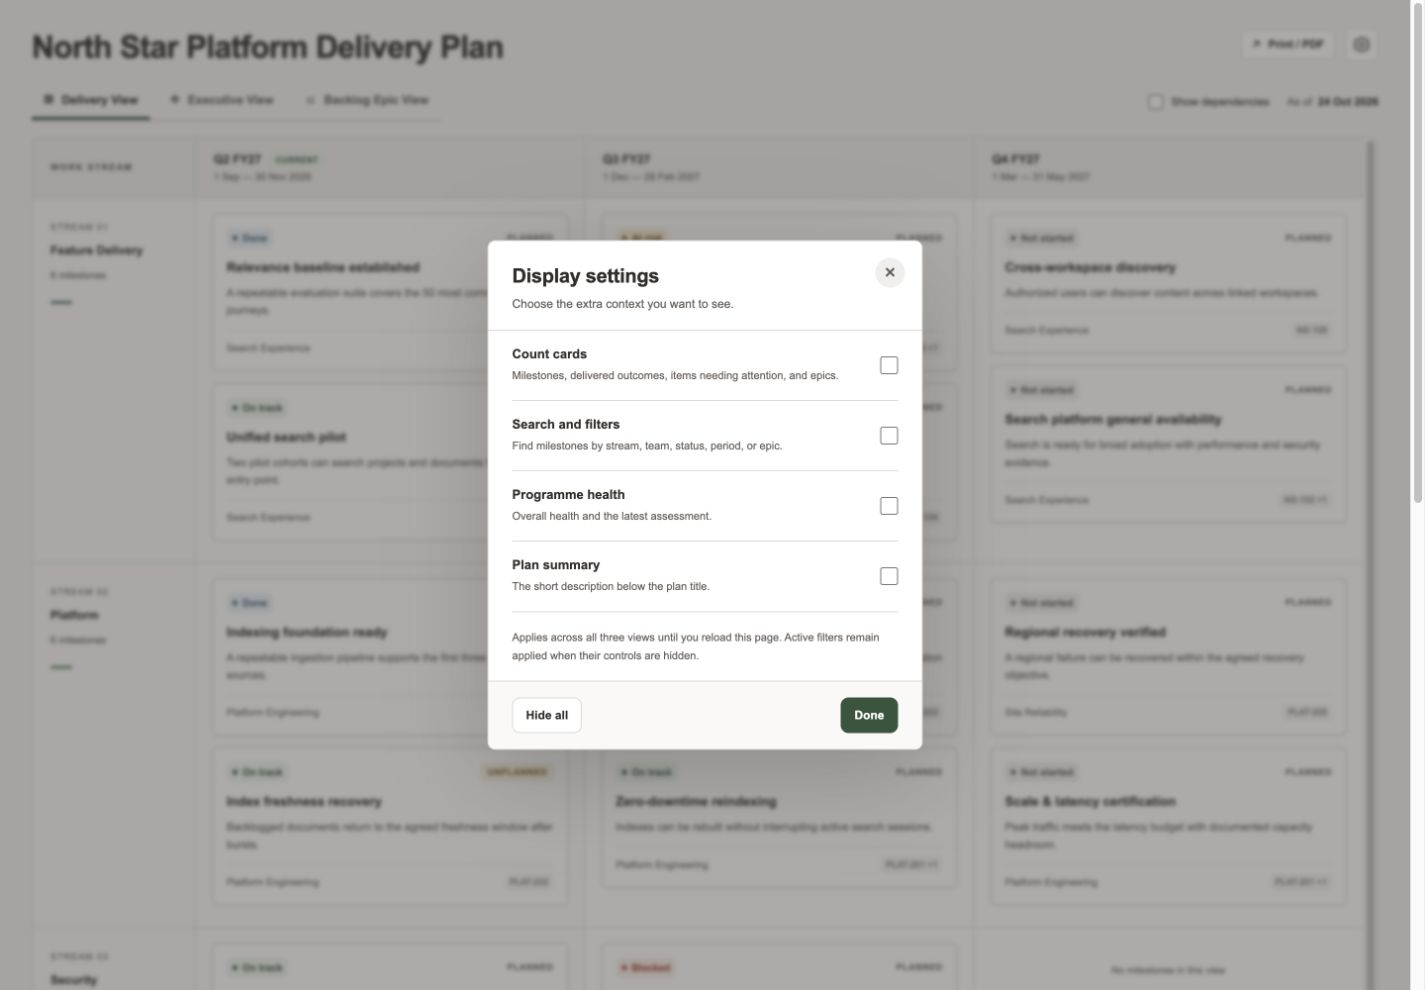
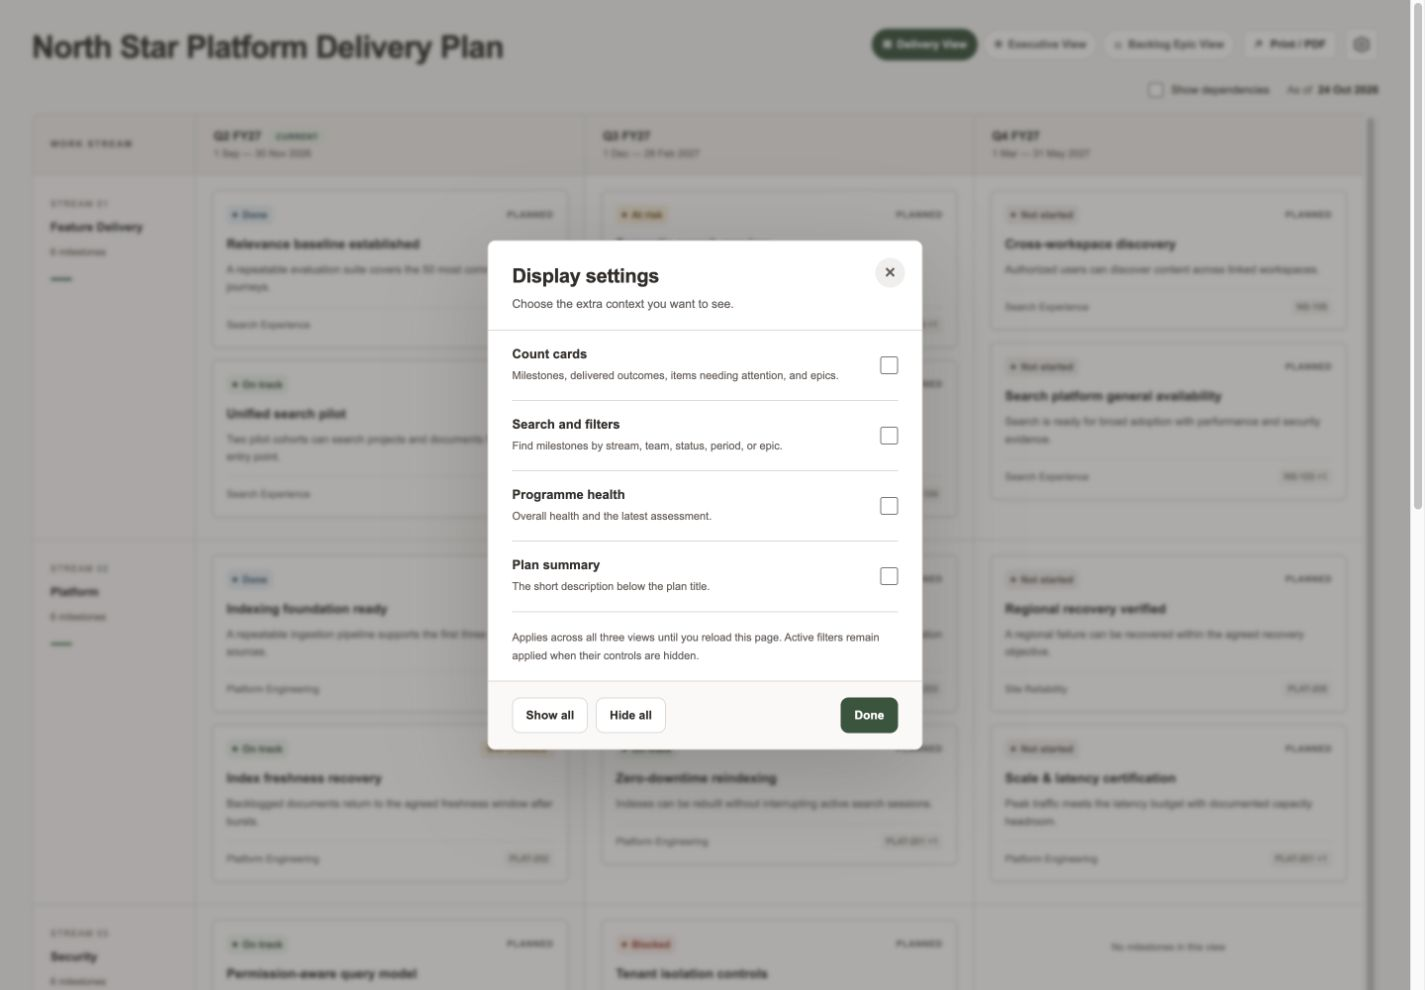
ui(planner): add view chips and show all settings

diff --git a/Plans/north-star-platform/delivery_plan.html b/Plans/north-star-platform/delivery_plan.html
@@ -26,7 +26,7 @@ a{color:var(--teal)}
 .button.primary{background:var(--primary);color:white;border-color:var(--primary)}
 .workspace{max-width:1800px;margin:auto;padding:28px 32px 24px}
 .hero{display:grid;grid-template-columns:minmax(0,1fr) auto;align-items:start;gap:12px 24px;margin-bottom:16px}
-.header-actions{display:flex;align-items:center;justify-content:flex-end;gap:10px}
+.header-actions{display:flex;align-items:center;justify-content:flex-end;gap:8px;flex-wrap:wrap;max-width:520px}
 .hero-copy{min-width:0}
 .eyebrow{display:flex;align-items:center;gap:10px;font-size:10px;font-weight:700;letter-spacing:1.5px;color:var(--muted)}
 h1{font-size:clamp(25px,2.2vw,32px);line-height:1.25;letter-spacing:-.7px;margin:0;font-weight:650;overflow-wrap:anywhere}
@@ -46,9 +46,9 @@ h1{font-size:clamp(25px,2.2vw,32px);line-height:1.25;letter-spacing:-.7px;margin
 .metric-number.teal{color:var(--teal)}
 .metric-number.amber{color:var(--amber)}
 .navigation-row{display:flex;align-items:center;justify-content:space-between;gap:12px 20px;flex-wrap:wrap;margin-bottom:16px}
-.view-tabs{display:flex;gap:8px;border-bottom:1px solid #bcb6b1;padding:0}
-.view-tabs button{border:0;border-bottom:3px solid transparent;background:transparent;padding:10px 12px;font-size:12px;font-weight:600;display:flex;align-items:center;gap:8px;color:var(--muted)}
-.view-tabs button[aria-selected=true]{border-bottom-color:var(--primary);color:var(--ink);background:transparent}
+.view-tabs{display:flex;gap:5px;padding:0;flex-wrap:wrap}
+.view-tabs button{border:1px solid var(--line);border-radius:16px;background:var(--paper);min-height:32px;padding:6px 10px;font-size:11px;font-weight:600;display:flex;align-items:center;gap:5px;color:var(--muted);white-space:nowrap}
+.view-tabs button[aria-selected=true]{border-color:var(--primary);color:#fff;background:var(--primary)}
 .filters{display:flex;align-items:end;gap:10px;flex-wrap:wrap;background:white;padding:14px 16px;border:1px solid var(--line);border-radius:8px}
 .filters label{display:flex;flex-direction:column;gap:6px;flex:1 1 110px;min-width:105px}
 .filters .search-filter{flex:1.5 1 180px}
@@ -178,6 +178,7 @@ dialog::backdrop{background:#312d2a66;backdrop-filter:blur(2px)}
 .no-script article{break-inside:avoid;border-top:1px solid var(--line);padding:14px 0}
 
 .view-tabs button:hover{background:#ece9e6}
+.view-tabs button[aria-selected=true]:hover{background:var(--primary)}
 
 .utility-actions{display:flex;align-items:center;gap:10px;flex-wrap:wrap;margin-left:auto}
 .reporting-date{font-size:11px;color:var(--muted);white-space:nowrap}
@@ -197,6 +198,7 @@ dialog::backdrop{background:#312d2a66;backdrop-filter:blur(2px)}
 .setting-row small{display:block;font-size:11px;line-height:1.6;color:var(--muted);margin-top:5px}
 .setting-row input{width:18px;height:18px;margin:0;flex:none;accent-color:var(--primary);cursor:pointer}
 .settings-note{font-size:11px;line-height:1.7;color:var(--muted);margin:16px 0 0}
+.settings-bulk-actions{display:flex;gap:8px}
 .settings-footer{display:flex;align-items:center;justify-content:space-between;gap:12px;padding:16px 24px;border-top:1px solid var(--line);background:#fbf9f8}
 
 @media(min-width:1600px){.milestone-title{font-size:13px}
@@ -232,8 +234,8 @@ dialog::backdrop{background:#312d2a66;backdrop-filter:blur(2px)}
 .utility-actions{width:100%;order:-1;justify-content:flex-end}
 .roadmap-controls{margin-right:0}
 .reporting-date{order:-1;margin-right:auto}
-.view-tabs{width:100%}
-.view-tabs button{flex:1;padding:10px 6px;font-size:11px;gap:4px}
+.view-tabs{width:100%;justify-content:flex-end}
+.view-tabs button{padding:6px;font-size:10px;gap:3px}
 .filters{gap:9px;padding:12px}
 .filters .search-filter{flex-basis:100%}
 .filters label{flex-basis:calc(33% - 12px);min-width:85px}
@@ -265,9 +267,10 @@ dialog::backdrop{background:#312d2a66;backdrop-filter:blur(2px)}
 @media print{.utility-actions{order:0;width:auto}
 body{background:white;color:#312d2a;font-size:10px;print-color-adjust:exact;-webkit-print-color-adjust:exact}
 .workspace{padding:16px 0;max-width:none}
-.skip-link,.header-actions,.utility-actions button,.filters,.roadmap-controls,.reset-button,.diagnostics,dialog{display:none!important}
+.skip-link,.header-actions>.button,.utility-actions button,.filters,.roadmap-controls,.reset-button,.diagnostics,dialog{display:none!important}
 .hero{grid-template-columns:1fr;margin-bottom:15px;gap:12px}
 .hero-copy{grid-row:auto}
+.header-actions{grid-row:auto;justify-content:flex-start;justify-self:start;max-width:none}
 h1{font-size:28px}
 .hero-summary{font-size:11px}
 .metrics{margin-bottom:15px}
@@ -320,17 +323,18 @@ h1{font-size:28px}
     <section class="hero" aria-labelledby="plan-title">
       <div class="hero-copy"><div class="title-row"><h1 id="plan-title">North Star Platform Delivery Plan</h1><div class="health-card" id="health-card" hidden><button class="health-button" id="health-button" type="button" aria-haspopup="dialog" aria-controls="health-dialog" aria-expanded="false"><span>Programme health</span><span id="health-status"></span><span aria-hidden="true">ⓘ</span></button></div></div><p class="hero-summary" id="plan-summary" hidden>A shared roadmap for better discovery, a resilient platform, and a confident rollout. Fictional public example.</p></div>
       <div class="header-actions">
+      <nav class="view-tabs" role="tablist" aria-label="Plan views">
+        <button type="button" id="tab-delivery" role="tab" data-view="delivery" aria-controls="view-content">▦ <span>Delivery View</span></button>
+        <button type="button" id="tab-executive" role="tab" data-view="executive" aria-controls="view-content">◈ <span>Executive View</span></button>
+        <button type="button" id="tab-backlog_epic" role="tab" data-view="backlog_epic" aria-controls="view-content">☷ <span>Backlog Epic View</span></button>
+      </nav>
         <button class="button compact-button" id="print-button" type="button"><span aria-hidden="true">↗</span> Print / PDF</button>
         <button class="button icon-button" id="settings-button" type="button" aria-label="Display settings" title="Display settings" aria-haspopup="dialog" aria-controls="settings-dialog" aria-expanded="false"><svg viewBox="0 0 24 24" width="18" height="18" fill="none" stroke="currentColor" stroke-width="1.7" stroke-linecap="round" stroke-linejoin="round" aria-hidden="true"><path d="m9 3-.6 2.4-2 .9-2.2-.7-2 3.4L4 10.7v2.6l-1.8 1.7 2 3.4 2.2-.7 2 .9L9 21h6l.6-2.4 2-.9 2.2.7 2-3.4-1.8-1.7v-2.6L21.8 9l-2-3.4-2.2.7-2-.9L15 3Z"/><circle cx="12" cy="12" r="3"/></svg></button>
       </div>
     </section>
     <section class="metrics" aria-label="Full plan milestone counts" id="metrics" hidden></section>
     <div class="navigation-row">
-      <nav class="view-tabs" role="tablist" aria-label="Plan views">
-        <button type="button" id="tab-delivery" role="tab" data-view="delivery" aria-controls="view-content">▦ <span>Delivery View</span></button>
-        <button type="button" id="tab-executive" role="tab" data-view="executive" aria-controls="view-content">◈ <span>Executive View</span></button>
-        <button type="button" id="tab-backlog_epic" role="tab" data-view="backlog_epic" aria-controls="view-content">☷ <span>Backlog Epic View</span></button>
-      </nav>
+
       <div class="utility-actions">
         <div class="roadmap-controls" id="roadmap-controls" hidden>
           <button class="button selection-clear" id="clear-selection" type="button" hidden>Clear selection</button>
@@ -364,7 +368,7 @@ h1{font-size:28px}
       <label class="setting-row"><span><strong>Plan summary</strong><small>The short description below the plan title.</small></span><input id="display-summary" type="checkbox" aria-label="Plan summary" aria-controls="plan-summary"></label>
       <p class="settings-note">Applies across all three views until you reload this page. Active filters remain applied when their controls are hidden.</p>
     </div>
-    <div class="settings-footer"><button class="button" id="hide-all-panels" type="button">Hide all</button><button class="button primary" id="done-settings" type="button">Done</button></div>
+    <div class="settings-footer"><div class="settings-bulk-actions"><button class="button" id="show-all-panels" type="button">Show all</button><button class="button" id="hide-all-panels" type="button">Hide all</button></div><button class="button primary" id="done-settings" type="button">Done</button></div>
   </dialog>
   <dialog id="health-dialog" class="settings-dialog" aria-labelledby="health-title" aria-describedby="health-note">
     <div class="settings-head"><h2 id="health-title">Programme health</h2><button class="close-detail" id="close-health" type="button" aria-label="Close programme health" autofocus>×</button><div id="health-detail-status"></div></div>
@@ -595,7 +599,7 @@ h1{font-size:28px}
     $('clear-selection').addEventListener('click',()=>{state.selected=null;render();$('show-dependencies').focus({preventScroll:true});});
     $('settings-button').addEventListener('click',()=>{$('settings-dialog').showModal();$('settings-button').setAttribute('aria-expanded','true');});
     for (const key of Object.keys(display)) $(`display-${key}`).addEventListener('change',event=>{display[key]=event.target.checked;applyDisplay();});
-    $('hide-all-panels').addEventListener('click',()=>{Object.keys(display).forEach(key=>display[key]=false);applyDisplay();});
+    for (const [id,visible] of [['show-all-panels',true],['hide-all-panels',false]]) $(id).addEventListener('click',()=>{Object.keys(display).forEach(key=>display[key]=visible);applyDisplay();});
     for (const id of ['close-settings','done-settings']) $(id).addEventListener('click',()=>$('settings-dialog').close());
     $('settings-dialog').addEventListener('click',event=>{if(event.target===$('settings-dialog')){const r=event.target.getBoundingClientRect();if(event.clientX<r.left||event.clientX>r.right||event.clientY<r.top||event.clientY>r.bottom)event.target.close();}});
     $('settings-dialog').addEventListener('close',()=>{$('settings-button').setAttribute('aria-expanded','false');$('settings-button').focus({preventScroll:true});});

diff --git a/Skills/delivery-planner/assets/templates/plan.css b/Skills/delivery-planner/assets/templates/plan.css
@@ -18,7 +18,7 @@ a{color:var(--teal)}
 .button.primary{background:var(--primary);color:white;border-color:var(--primary)}
 .workspace{max-width:1800px;margin:auto;padding:28px 32px 24px}
 .hero{display:grid;grid-template-columns:minmax(0,1fr) auto;align-items:start;gap:12px 24px;margin-bottom:16px}
-.header-actions{display:flex;align-items:center;justify-content:flex-end;gap:10px}
+.header-actions{display:flex;align-items:center;justify-content:flex-end;gap:8px;flex-wrap:wrap;max-width:520px}
 .hero-copy{min-width:0}
 .eyebrow{display:flex;align-items:center;gap:10px;font-size:10px;font-weight:700;letter-spacing:1.5px;color:var(--muted)}
 h1{font-size:clamp(25px,2.2vw,32px);line-height:1.25;letter-spacing:-.7px;margin:0;font-weight:650;overflow-wrap:anywhere}
@@ -38,9 +38,9 @@ h1{font-size:clamp(25px,2.2vw,32px);line-height:1.25;letter-spacing:-.7px;margin
 .metric-number.teal{color:var(--teal)}
 .metric-number.amber{color:var(--amber)}
 .navigation-row{display:flex;align-items:center;justify-content:space-between;gap:12px 20px;flex-wrap:wrap;margin-bottom:16px}
-.view-tabs{display:flex;gap:8px;border-bottom:1px solid #bcb6b1;padding:0}
-.view-tabs button{border:0;border-bottom:3px solid transparent;background:transparent;padding:10px 12px;font-size:12px;font-weight:600;display:flex;align-items:center;gap:8px;color:var(--muted)}
-.view-tabs button[aria-selected=true]{border-bottom-color:var(--primary);color:var(--ink);background:transparent}
+.view-tabs{display:flex;gap:5px;padding:0;flex-wrap:wrap}
+.view-tabs button{border:1px solid var(--line);border-radius:16px;background:var(--paper);min-height:32px;padding:6px 10px;font-size:11px;font-weight:600;display:flex;align-items:center;gap:5px;color:var(--muted);white-space:nowrap}
+.view-tabs button[aria-selected=true]{border-color:var(--primary);color:#fff;background:var(--primary)}
 .filters{display:flex;align-items:end;gap:10px;flex-wrap:wrap;background:white;padding:14px 16px;border:1px solid var(--line);border-radius:8px}
 .filters label{display:flex;flex-direction:column;gap:6px;flex:1 1 110px;min-width:105px}
 .filters .search-filter{flex:1.5 1 180px}
@@ -170,6 +170,7 @@ dialog::backdrop{background:#312d2a66;backdrop-filter:blur(2px)}
 .no-script article{break-inside:avoid;border-top:1px solid var(--line);padding:14px 0}
 
 .view-tabs button:hover{background:#ece9e6}
+.view-tabs button[aria-selected=true]:hover{background:var(--primary)}
 
 .utility-actions{display:flex;align-items:center;gap:10px;flex-wrap:wrap;margin-left:auto}
 .reporting-date{font-size:11px;color:var(--muted);white-space:nowrap}
@@ -189,6 +190,7 @@ dialog::backdrop{background:#312d2a66;backdrop-filter:blur(2px)}
 .setting-row small{display:block;font-size:11px;line-height:1.6;color:var(--muted);margin-top:5px}
 .setting-row input{width:18px;height:18px;margin:0;flex:none;accent-color:var(--primary);cursor:pointer}
 .settings-note{font-size:11px;line-height:1.7;color:var(--muted);margin:16px 0 0}
+.settings-bulk-actions{display:flex;gap:8px}
 .settings-footer{display:flex;align-items:center;justify-content:space-between;gap:12px;padding:16px 24px;border-top:1px solid var(--line);background:#fbf9f8}
 
 @media(min-width:1600px){.milestone-title{font-size:13px}
@@ -224,8 +226,8 @@ dialog::backdrop{background:#312d2a66;backdrop-filter:blur(2px)}
 .utility-actions{width:100%;order:-1;justify-content:flex-end}
 .roadmap-controls{margin-right:0}
 .reporting-date{order:-1;margin-right:auto}
-.view-tabs{width:100%}
-.view-tabs button{flex:1;padding:10px 6px;font-size:11px;gap:4px}
+.view-tabs{width:100%;justify-content:flex-end}
+.view-tabs button{padding:6px;font-size:10px;gap:3px}
 .filters{gap:9px;padding:12px}
 .filters .search-filter{flex-basis:100%}
 .filters label{flex-basis:calc(33% - 12px);min-width:85px}
@@ -257,9 +259,10 @@ dialog::backdrop{background:#312d2a66;backdrop-filter:blur(2px)}
 @media print{.utility-actions{order:0;width:auto}
 body{background:white;color:#312d2a;font-size:10px;print-color-adjust:exact;-webkit-print-color-adjust:exact}
 .workspace{padding:16px 0;max-width:none}
-.skip-link,.header-actions,.utility-actions button,.filters,.roadmap-controls,.reset-button,.diagnostics,dialog{display:none!important}
+.skip-link,.header-actions>.button,.utility-actions button,.filters,.roadmap-controls,.reset-button,.diagnostics,dialog{display:none!important}
 .hero{grid-template-columns:1fr;margin-bottom:15px;gap:12px}
 .hero-copy{grid-row:auto}
+.header-actions{grid-row:auto;justify-content:flex-start;justify-self:start;max-width:none}
 h1{font-size:28px}
 .hero-summary{font-size:11px}
 .metrics{margin-bottom:15px}

diff --git a/Skills/delivery-planner/assets/templates/plan.js b/Skills/delivery-planner/assets/templates/plan.js
@@ -221,7 +221,7 @@
     $('clear-selection').addEventListener('click',()=>{state.selected=null;render();$('show-dependencies').focus({preventScroll:true});});
     $('settings-button').addEventListener('click',()=>{$('settings-dialog').showModal();$('settings-button').setAttribute('aria-expanded','true');});
     for (const key of Object.keys(display)) $(`display-${key}`).addEventListener('change',event=>{display[key]=event.target.checked;applyDisplay();});
-    $('hide-all-panels').addEventListener('click',()=>{Object.keys(display).forEach(key=>display[key]=false);applyDisplay();});
+    for (const [id,visible] of [['show-all-panels',true],['hide-all-panels',false]]) $(id).addEventListener('click',()=>{Object.keys(display).forEach(key=>display[key]=visible);applyDisplay();});
     for (const id of ['close-settings','done-settings']) $(id).addEventListener('click',()=>$('settings-dialog').close());
     $('settings-dialog').addEventListener('click',event=>{if(event.target===$('settings-dialog')){const r=event.target.getBoundingClientRect();if(event.clientX<r.left||event.clientX>r.right||event.clientY<r.top||event.clientY>r.bottom)event.target.close();}});
     $('settings-dialog').addEventListener('close',()=>{$('settings-button').setAttribute('aria-expanded','false');$('settings-button').focus({preventScroll:true});});

diff --git a/docs/verification.md b/docs/verification.md
@@ -57,12 +57,12 @@ Inspected the generated HTML through a localhost-only server in the Codex browse
 - Backlog Epic View contains 21 epic groups plus the unlinked-milestone group. Filtering to PLAT-201 produces one group with three milestones across three periods, with unique counts.
 - Keyboard arrow navigation switches tabs. Native controls and modal focus handling are available.
 - Desktop and 390-pixel viewport checks showed no page-wide horizontal overflow. The narrow roadmap scrolls within its own container.
-- Redwood styling uses warm neutrals, a compact title, underlined tabs, and consistent status badges. Print / PDF and the settings icon sit at the top-right beside the title; the reporting date remains beside view navigation. The dark banner and office branding have been removed.
-- Programme health, count cards, search/filters, the summary, and the inactive result strip are hidden on initial load. When enabled, programme health appears beside the title as a 32-pixel-high badge. The desktop roadmap begins about 138 pixels from the top at a 1440-pixel viewport width.
-- Display settings independently enables all four optional panels across the three views. Hide all hides every optional element, including health. Close, Done, and Escape dismiss the overlay and restore focus to its trigger. Reload resets all four settings to unchecked and hides the health badge.
+- Redwood styling uses warm neutrals, a compact title, filled selected view chips, and consistent status badges. View chips, Print / PDF, and the settings icon sit at the top-right beside the title; the reporting date remains with the dependency controls below. The dark banner and office branding have been removed.
+- Programme health, count cards, search/filters, the summary, and the inactive result strip are hidden on initial load. When enabled, programme health appears beside the title as a 32-pixel-high badge. The desktop roadmap begins about 116 pixels from the top at a 1440-pixel viewport width.
+- Display settings independently enables all four optional panels across the three views. Show all enables all four optional elements and checks their settings. Hide all hides every optional element, including health. Close, Done, and Escape dismiss the overlay and restore focus to its trigger. Reload resets all four settings to unchecked and hides the health badge.
 - Hiding the controls with PLAT-201 selected preserves the one-epic, three-milestone result and its visible Clear filters action. Clearing restores all 22 groups (21 epic groups plus unlinked milestones) and hides the inactive result strip.
 - Dependency display still renders 21 valid relationships after enabling count cards. Selecting and clearing a milestone correctly shows and hides the selection summary.
-- Delivery and Executive roadmaps start directly with period headings. Show dependencies and Clear selection are outside the board beside the view controls. Dependency state survives view switches; roadmap controls are hidden in Backlog Epic View. Clearing a selection returns focus to Show dependencies.
+- Delivery and Executive roadmaps start directly with period headings. Show dependencies and Clear selection are outside the board below the header. Dependency state survives view switches; roadmap controls are hidden in Backlog Epic View. Clearing a selection returns focus to Show dependencies.
 - The compact toolbar and settings overlay were inspected at a 390-pixel viewport width. The dialog fits inside the viewport and the page has no horizontal overflow.
 - Print / PDF and Settings align at the top-right on desktop. At 390 pixels they sit above the title without overlap; the health badge wraps below the title, and dismissing settings returns focus to its relocated button.
 - Clicking programme health opens its full assessment. Close and Escape dismiss the dialog, and Escape returns focus to the badge. At 390 pixels the assessment dialog fits inside the viewport (337 pixels wide), with no page-wide horizontal overflow. Dependency lines still render after the header change.

diff --git a/docs/delivery-planner-spec.md b/docs/delivery-planner-spec.md
@@ -324,14 +324,14 @@ Templates must retain these enum comments beside editable values. Generated HTML
 
 ### Visual theme
 
-Use the Redwood visual theme: warm neutral canvas and white cards, charcoal text, pine and teal accents, restrained sienna highlights, clear sans-serif typography, subtle borders, and modest corner radii. Selected tabs use an underline. Status badges retain readable text labels alongside colour. Keep the header compact with the plan title and view navigation; omit the dark application banner and office branding. Place Print / PDF and the settings icon at the top-right beside the plan title. Keep the reporting snapshot with the view controls. On narrow screens, put the two actions above the title so neither overlaps or truncates it.
+Use the Redwood visual theme: warm neutral canvas and white cards, charcoal text, pine and teal accents, restrained sienna highlights, clear sans-serif typography, subtle borders, and modest corner radii. View selectors are compact clickable chips with a filled selected state and keyboard tab navigation. Status badges retain readable text labels alongside colour. Keep the header compact with the plan title and view navigation; omit the dark application banner and office branding. Place the three view chips, Print / PDF, and the settings icon at the top-right beside the plan title. Keep the reporting snapshot and dependency controls in a compact row below. On narrow screens, wrap the chips and actions above the title so neither overlaps or truncates it.
 
 Maintain these styles in the shared renderer templates, so every generated plan inherits the same design. Use system fonts and inline assets to preserve offline portability. Keep vendor branding out of plan content and project documentation.
 
 ### Shared behavior
 
 - Show plan title, reporting date, and view navigation.
-- Provide an accessible Display settings overlay with independent toggles for count cards, search and filters, programme health, and the plan summary. When enabled, programme health is shown as a compact badge beside the title, wrapping below it on narrow screens. Clicking the badge opens an accessible assessment dialog; close and Escape restore focus to the badge. Missing health remains “Not provided”; no status is inferred. All four options are unchecked and hidden by default, including before JavaScript initializes. Provide Hide all, close, and Escape actions, and restore focus to the settings button on dismissal.
+- Provide an accessible Display settings overlay with independent toggles for count cards, search and filters, programme health, and the plan summary. When enabled, programme health is shown as a compact badge beside the title, wrapping below it on narrow screens. Clicking the badge opens an accessible assessment dialog; close and Escape restore focus to the badge. Missing health remains “Not provided”; no status is inferred. All four options are unchecked and hidden by default, including before JavaScript initializes. Provide Show all and Hide all actions to enable or hide all four optional elements, plus close and Escape actions, and restore focus to the settings button on dismissal.
 - Apply display settings across all three views for the current page session. Reloading returns to the compact defaults. Settings do not change YAML, delivery data, or the generated artifact.
 - Hiding search/filter controls preserves active filters. Retain a visible result summary and Clear filters action whenever filters are active; retain selection context while a milestone is selected. Otherwise hide the result strip when filter controls are hidden.
 - Optional panels remain hidden in print unless enabled. Keep the reporting date and any active filter context in printed output. Executive risks, decisions, and exception reporting remain core view content.
